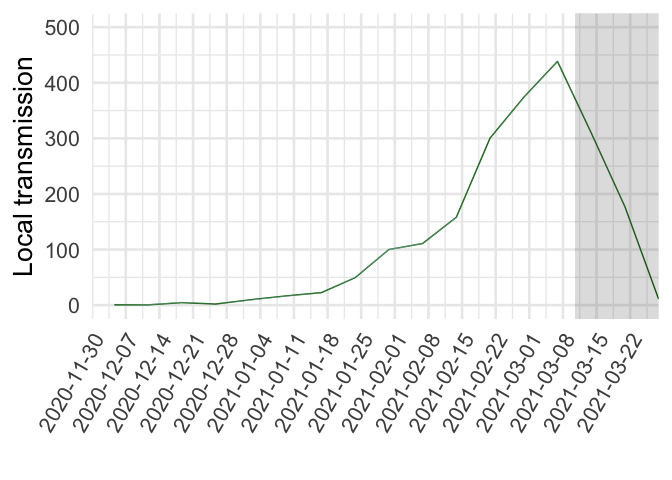
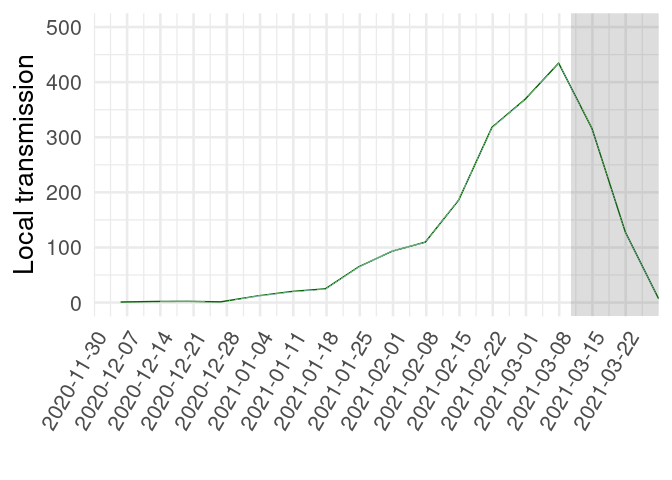
updated April 27th
updated April 27th

diff --git a/UK_results.md b/UK_results.md
@@ -1,6 +1,6 @@
 Results - B.1.1.7, “UK variant”
 ================
-20/04/2021
+27/04/2021
 
 Phylogeographic mapping
 
@@ -19,11 +19,11 @@ Quantifying introductions and local transmission
 
 ##### Table 1. Estimated number of infections in Norway resulting from import and local transmission based on the phylogeographic analyses in Figure 1.
 
-|                    |      2.5% |      50% |     97.5% |
-|:-------------------|----------:|---------:|----------:|
-| Import             |  216.3000 |  219.000 |  221.8000 |
-| Local transmission | 2083.2000 | 2086.000 | 2088.7000 |
-| Import / Total     |    0.0938 |    0.095 |    0.0962 |
+|                    |     2.5% |       50% |     97.5% |
+|:-------------------|---------:|----------:|----------:|
+| Import             |  212.000 |  215.5000 |  218.0000 |
+| Local transmission | 2087.000 | 2089.5000 | 2093.0000 |
+| Import / Total     |    0.092 |    0.0935 |    0.0946 |
 
 Next, we estimate the fraction of introductions relative to local
 transmission over time. In these and subsequent analyses it is important
